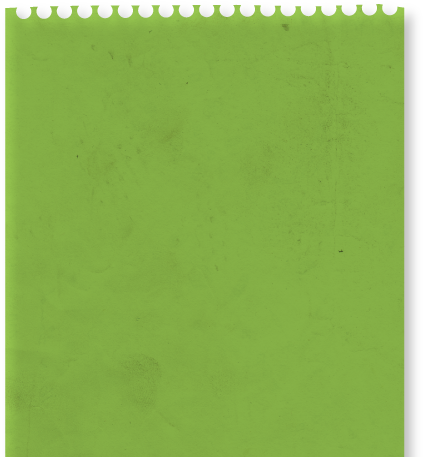
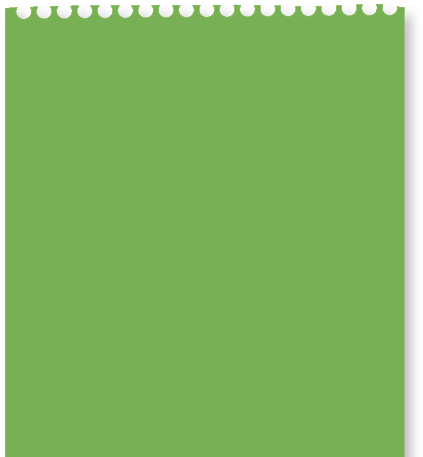
More image and CSS colour updates

Changed region(s): [[0.0, 0.0, 0.5225, 1.0], [0.5225, 0.0, 0.9527, 0.0613]]

diff --git a/public/stylesheets/mindapples.css b/public/stylesheets/mindapples.css
@@ -993,14 +993,14 @@ label {
   .mindapple > div {
     background: url(/images/green_apple.png) no-repeat left bottom;
     background-position: 15px 15px;
-    border: 2px solid #2a832a;
+    border: 2px solid #77b055;
     border-top: 0px;
     margin-left: 55px;
     padding: 10px 15px 10px 80px; }
   .mindapple span {
     display: block; }
   .mindapple .number {
-    color: #2a832a;
+    color: #77b055;
     font-size: 1.4em;
     margin: 0; }
   .mindapple .apple {
@@ -1032,7 +1032,7 @@ label {
       text-indent: -9999px;
       width: 19px; }
   .mindapple a {
-    color: #2a832a;
+    color: #77b055;
     text-decoration: none; }
 
 /* Home page */
